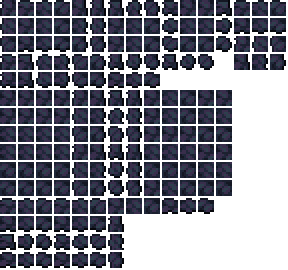
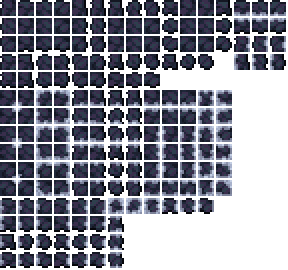
Tile framing and craftable evostone bricks

diff --git a/Items/Nvidia/Evostone.cs b/Items/Nvidia/Evostone.cs
@@ -19,6 +19,11 @@ namespace SOTS.Items.Nvidia
 			soundType = SoundID.Tink;
 			soundStyle = 2;
 		}
+		public override bool TileFrame(int i, int j, ref bool resetFrame, ref bool noBreak)
+		{
+			SOTS.MergeWithFrame(i, j, Type, TileID.Marble, forceSameDown: false, forceSameUp: false, forceSameLeft: false, forceSameRight: false, resetFrame);
+			return false;
+		}
 	}
 	public class Evostone : ModItem
 	{
@@ -29,7 +34,7 @@ namespace SOTS.Items.Nvidia
 		public override void SetDefaults()
 		{
 			item.CloneDefaults(ItemID.StoneBlock);
-			item.rare = ItemRarityID.LightPurple;
+			item.rare = ItemRarityID.Blue;
 			item.createTile = ModContent.TileType<EvostoneTile>();
 		}
 	}
@@ -58,8 +63,16 @@ namespace SOTS.Items.Nvidia
 		public override void SetDefaults()
 		{
 			item.CloneDefaults(ItemID.StoneBlock);
-			item.rare = ItemRarityID.LightPurple;
+			item.rare = ItemRarityID.Blue;
 			item.createTile = ModContent.TileType<EvostoneBrickTile>();
+		}
+		public override void AddRecipes()
+		{
+			ModRecipe recipe = new ModRecipe(mod);
+			recipe.AddIngredient(ModContent.ItemType<Evostone>(), 2);
+			recipe.AddTile(TileID.Hellforge);
+			recipe.SetResult(this, 1);
+			recipe.AddRecipe();
 		}
 	}
 	public class EvostoneBrickWallTile : ModWall
@@ -85,8 +98,21 @@ namespace SOTS.Items.Nvidia
 			item.CloneDefaults(ItemID.StoneWall);
 			item.width = 28;
 			item.height = 28;
-			item.rare = ItemRarityID.LightPurple;
+			item.rare = ItemRarityID.Blue;
 			item.createWall = ModContent.WallType<EvostoneBrickWallTile>();
+		}
+		public override void AddRecipes()
+		{
+			ModRecipe recipe = new ModRecipe(mod);
+			recipe.AddIngredient(ModContent.ItemType<EvostoneBrick>(), 1);
+			recipe.AddTile(TileID.WorkBenches);
+			recipe.SetResult(this, 4);
+			recipe.AddRecipe();
+			recipe = new ModRecipe(mod);
+			recipe.AddIngredient(this, 4);
+			recipe.AddTile(TileID.WorkBenches);
+			recipe.SetResult(ModContent.ItemType<EvostoneBrick>(), 1);
+			recipe.AddRecipe();
 		}
 	}
 	public class DarkShinglesTile : ModTile
@@ -113,8 +139,16 @@ namespace SOTS.Items.Nvidia
 		public override void SetDefaults()
 		{
 			item.CloneDefaults(ItemID.StoneBlock);
-			item.rare = ItemRarityID.LightPurple;
+			item.rare = ItemRarityID.Blue;
 			item.createTile = ModContent.TileType<DarkShinglesTile>();
+		}
+		public override void AddRecipes()
+		{
+			ModRecipe recipe = new ModRecipe(mod);
+			recipe.AddIngredient(ModContent.ItemType<EvostoneBrick>(), 2);
+			recipe.AddTile(TileID.Hellforge);
+			recipe.SetResult(this, 1);
+			recipe.AddRecipe();
 		}
 	}
 }

diff --git a/Items/Pyramid/Maldite.cs b/Items/Pyramid/Maldite.cs
@@ -56,7 +56,7 @@ namespace SOTS.Items.Pyramid
 		}
 		public override bool TileFrame(int i, int j, ref bool resetFrame, ref bool noBreak)
 		{
-			SOTS.MergeWithFrame(i, j, Type, mod.TileType("CursedTumorTile"), forceSameDown: false, forceSameUp: false, forceSameLeft: false, forceSameRight: false, resetFrame);
+			SOTS.MergeWithFrame(i, j, Type, ModContent.TileType<CursedTumorTile>(), forceSameDown: false, forceSameUp: false, forceSameLeft: false, forceSameRight: false, resetFrame);
 			return false;
 		}
 	}

diff --git a/Items/Earth/VibrantOre.cs b/Items/Earth/VibrantOre.cs
@@ -53,6 +53,11 @@ namespace SOTS.Items.Earth
 			soundStyle = 2;
 			dustType = ModContent.DustType<VibrantDust>();
 		}
+		public override bool TileFrame(int i, int j, ref bool resetFrame, ref bool noBreak)
+		{
+			SOTS.MergeWithFrame(i, j, Type, TileID.Marble, forceSameDown: false, forceSameUp: false, forceSameLeft: false, forceSameRight: false, resetFrame);
+			return false;
+		}
 		public override bool KillSound(int i, int j)
 		{
 			Vector2 pos = new Vector2(i * 16, j * 16) + new Vector2(8, 8);
